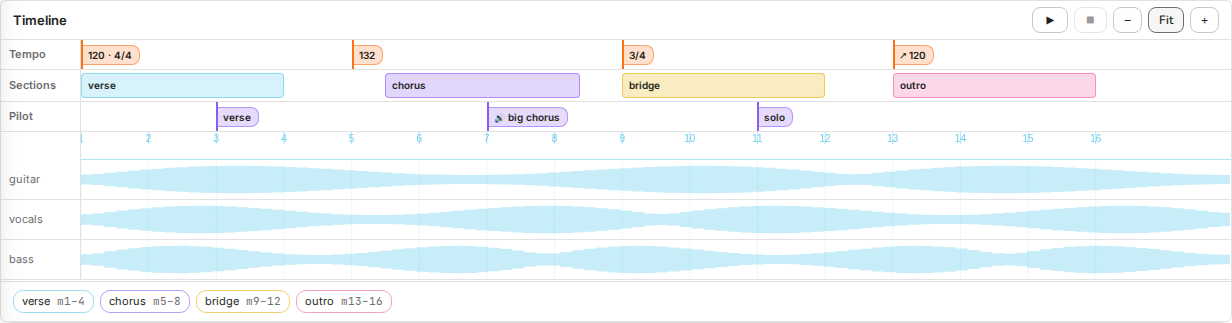
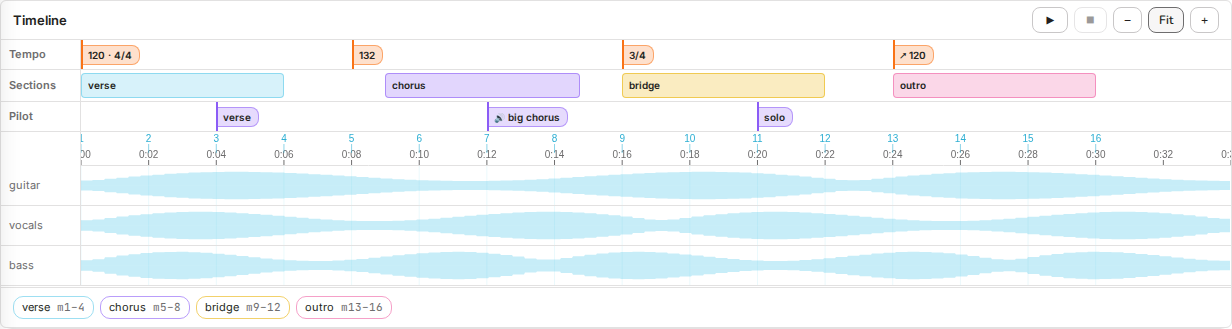
docs(webui): one position picker, documented
The picker replaced the number-stepper pairs in three dialogs and
nothing said so. A "Positions: one picker everywhere" section now covers
the ruler, the transport, the beat/time toggle — including why the
toggle means different things depending on what the dialog can store —
and the playhead capture, with a shot of a section dialog in time mode
where all of it is visible at once.

Every dialog and timeline capture is regenerated: the dialogs carry the
picker now, and the timeline ruler has two bands.

diff --git a/src/webui/svelte/e2e/screenshots/capture.spec.ts b/src/webui/svelte/e2e/screenshots/capture.spec.ts
@@ -383,6 +383,30 @@ test("section-dialog", async ({ page }) => {
   });
 });
 
+// The picker in time mode, with the playhead marked on its ruler: the one
+// shot that shows the toggle, the clock labels and the capture row at once.
+test("position-picker-time", async ({ page }) => {
+  const wsId = freshWsId("picker-time");
+  await steOpen(page, STE_YAML, wsId);
+  await pushWs(page, wsId, {
+    ...DEFAULT_PLAYBACK,
+    song_name: STE_SONG,
+    song_duration_ms: 34000,
+    playlist_position: 1,
+    elapsed_ms: 5000,
+  });
+  await expect(page.locator(".playhead")).toBeVisible();
+  const block = page.locator(".section-block").first();
+  const box = (await block.boundingBox())!;
+  await page.mouse.click(box.x + box.width / 2, box.y + box.height / 2);
+  await expect(page.locator(".marker-dialog")).toBeVisible();
+  await page.getByRole("button", { name: "time", exact: true }).click();
+  await page.waitForTimeout(250);
+  await page.locator(".marker-dialog").screenshot({
+    path: path.join(DOCS_IMAGES, "position-picker-time.png"),
+  });
+});
+
 test("section-preview-transport", async ({ page }) => {
   const wsId = freshWsId("preview");
   await steOpen(page, STE_YAML, wsId);

diff --git a/docs/src/interfaces/web-ui.md b/docs/src/interfaces/web-ui.md
@@ -170,7 +170,8 @@ The timeline displays all track waveforms and beat grid measure lines. Sections 
 - **Deleted** from that dialog, or with the Delete key
 
 Zoom controls include +/-, Fit, and Ctrl+scroll wheel with anchor-point zooming. Measure label
-density and snap granularity adapt to zoom level.
+density and snap granularity adapt to zoom level. The ruler carries two bands: measure numbers
+along the top, the clock underneath.
 
 The lanes below the timeline are the song's tracks. Generated ones are drawn too: the
 metronome's click and the pilot cues are rendered from the same config the player synthesizes
@@ -190,25 +191,24 @@ Real songs change parts mid-measure, so a section's bounds are not limited to me
 `start_beat` / `end_beat` — 1-based within the boundary measure, fractional allowed, omitted
 meaning the measure line — offset either end to any position on the beat grid (see
 [song configuration](../configuration/song-config.md)). Seeking to a section and looping it
-both follow the offsets; a section may even begin and end inside one measure. The beat
-steppers stop at the end of their own measure — the next downbeat is the measure after, not
-a fifth beat of a 4/4 bar — and both the drags and the capture buttons order the two bounds
-by the time they resolve to rather than by their measure and beat numbers.
+both follow the offsets; a section may even begin and end inside one measure. A beat stays
+inside the measure that names it — the position after a 4/4 measure's last beat is the next
+measure's downbeat, not a fifth beat — and both the drags and the capture buttons order the
+two bounds by the time they resolve to rather than by their measure and beat numbers.
 
 ![A section starting and ending off the measure line](../images/section-beat-boundaries.png)
 
 There are three ways to set one, none of which involve counting beats in your head: the
-dialog's start/end beat steppers, an edge drag once the zoom makes beats distinct, and — when
-the song is the one loaded in the player — capturing the playhead. Play up to the transition,
-pause, and press **Start here** or **End here**; the capture snaps to the nearest half beat,
-and the buttons disable when they would invert the section.
+dialog's [position pickers](#positions-one-picker-everywhere), an edge drag once the zoom makes
+beats distinct, and — when the song is the one loaded in the player — capturing the playhead.
+Play up to the transition, pause, and press **Start here** or **End here**; the capture snaps
+to the nearest half beat, and the buttons disable when they would invert the section.
 
 #### The section dialog
 
 Tapping a section opens a bottom sheet with everything drag editing cannot do precisely on a
-phone: its name, its position (a start-measure stepper that slides the whole section keeping
-its length, a length stepper clamped to the song, and a beat offset for either end), and its
-color. Colors come from a
+phone: its name, its start and end — each on its own
+[position picker](#positions-one-picker-everywhere) — and its color. Colors come from a
 palette — new sections rotate through it automatically — and are stored as `sections[].color`
 in `song.yaml`.
 
@@ -243,6 +243,32 @@ subdivisions are not here; they live on the tempo markers, since they change mid
 
 ![The song's metronome panel](../images/song-metronome-panel.png)
 
+#### Positions: one picker everywhere
+
+Every position in these dialogs — a section's start and end, a tempo marker, a pilot hint — is
+edited with the same control:
+
+- A **three-measure ruler** you tap or drag along, one tick per beat and a shorter one per half.
+  It follows the meter in effect, so a 3/4 measure draws three beats and is labelled with its
+  signature. Holding a drag at either end walks the window along, beat by beat.
+- A **transport row** above it: `◀◀ ◀` and `▶ ▶▶` step by measure and by beat, rolling over
+  measure lines, and repeat when held. The readout between them can be tapped to type a position
+  (`13.4.5`) or a time (`1:23.4`).
+- A **beat / time toggle**. What it does depends on what the dialog can store. A pilot hint can
+  keep an absolute time, so time mode decouples it: the cursor leaves the grid and the steps
+  become 0.01/0.1/1 second. A section boundary or tempo change can only keep a beat, so there
+  time is a unit — the ruler still snaps and the clock reads the time of the beat you are on.
+- A **playhead capture** row, when the song is in the player: play up to the spot, pause, and
+  take it. A hint takes the exact time when it is time-anchored, everything else takes the beat
+  it lands on. A tempo change refuses a capture onto a beat another change already holds.
+
+Everything readable sits above the ruler, which is the touch surface: on a phone your hand
+covers the ticks and nothing else.
+
+![A position picker in time mode, with the playhead marked](../images/position-picker-time.png)
+
+The [section dialog](#the-section-dialog) above shows two of them, with the capture row.
+
 #### Tempo and pilot layers
 
 Above the section lane the timeline shows two DAW-style marker layers, so the song's tempo map
@@ -253,8 +279,9 @@ and pilot voice-hints can be authored against the same beat grid:
   position, BPM (with a Tap helper), time signature, and an optional transition (snap, or ramp
   over a number of beats/measures). Clicking empty space adds a change at that measure.
 - **Pilot layer** — one marker per voice hint. Clicking a marker opens the **pilot hint** dialog
-  to edit the label, the measure/beat (or absolute time) position, and an optional audio clip;
-  a hint with no clip is a visual cue only. Adjacent hints group together when their display
+  to edit the label, the position — anchored to a beat or to an absolute time, converted through
+  the beat grid when you switch — and an optional audio clip; a hint with no clip is a visual cue
+  only. Adjacent hints group together when their display
   windows overlap.
 
 ![Section timeline with tempo and pilot layers](../images/section-timeline-editor.png)
